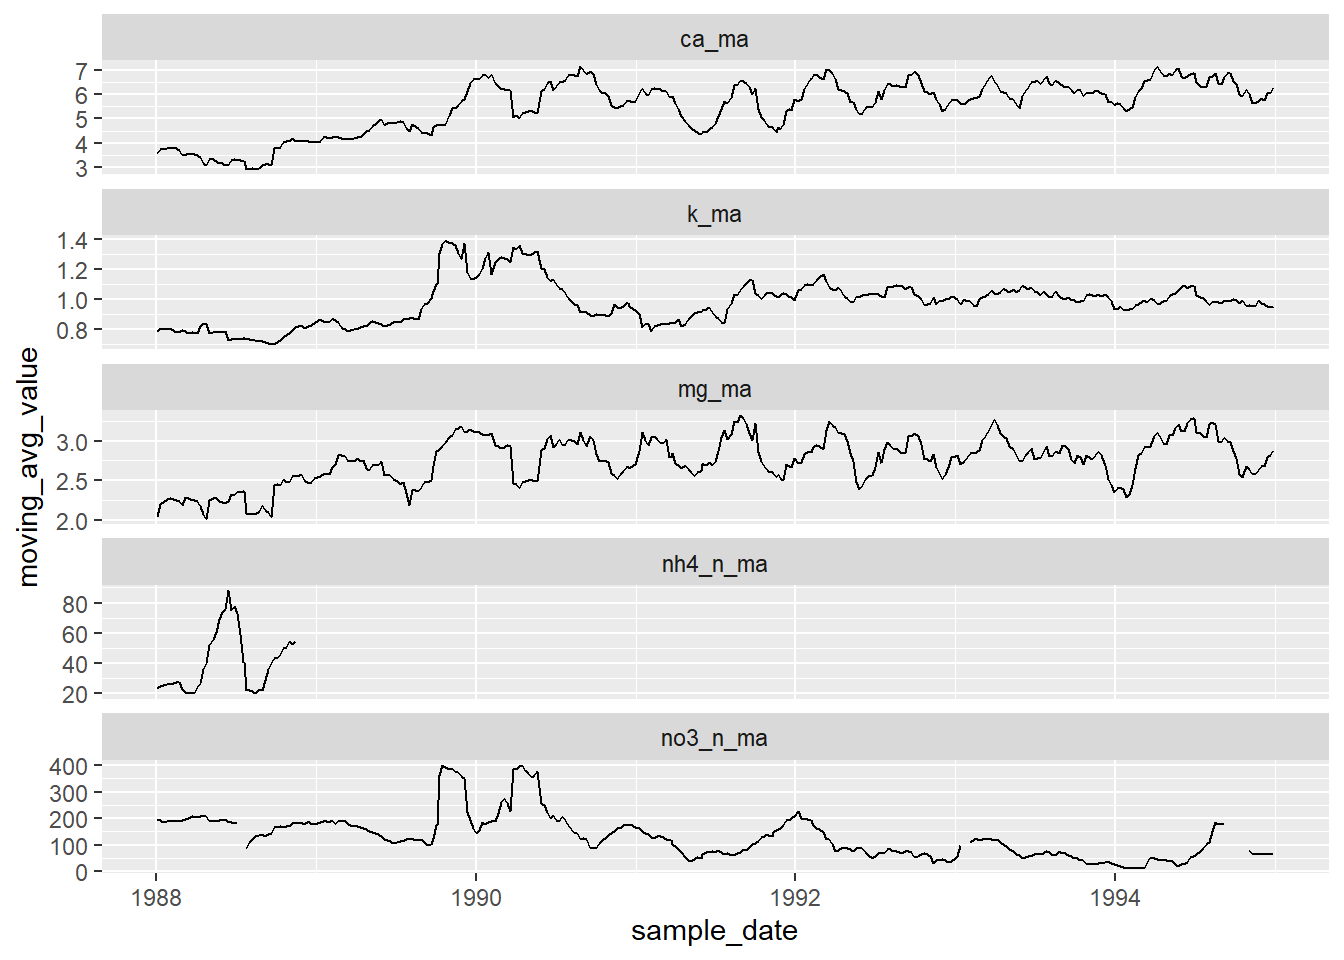
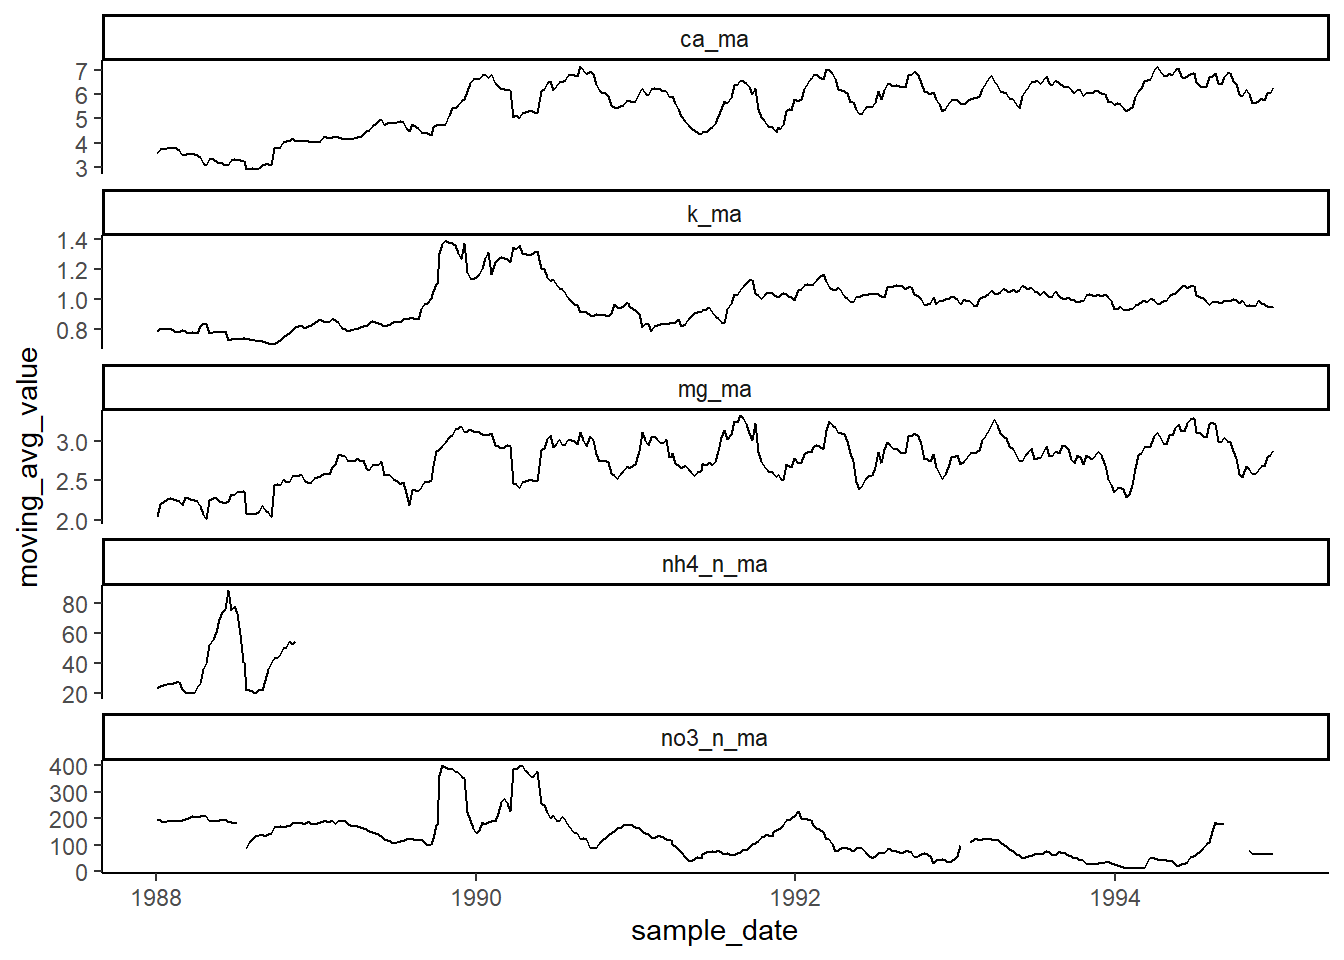
changed ggplot theme.

diff --git a/docs/paper.html b/docs/paper.html
@@ -323,7 +323,8 @@ date  (1): Sample_Date
 <span id="cb24-3"><a href="#cb24-3" aria-hidden="true" tabindex="-1"></a><span class="fu">ggplot</span>(<span class="at">data =</span> watersheds_ma, <span class="fu">aes</span>(<span class="at">x =</span> sample_date, <span class="at">y =</span> moving_avg_value)) <span class="sc">+</span></span>
 <span id="cb24-4"><a href="#cb24-4" aria-hidden="true" tabindex="-1"></a>  <span class="fu">geom_line</span>(<span class="fu">aes</span>()) <span class="sc">+</span></span>
 <span id="cb24-5"><a href="#cb24-5" aria-hidden="true" tabindex="-1"></a>  <span class="fu">facet_wrap</span>(<span class="sc">~</span>ion, <span class="at">scales =</span> <span class="st">"free_y"</span>, <span class="at">ncol =</span> <span class="dv">1</span>) <span class="sc">+</span></span>
-<span id="cb24-6"><a href="#cb24-6" aria-hidden="true" tabindex="-1"></a>  <span class="fu">geom_vline</span>(<span class="at">xintercept =</span> <span class="dv">1</span><span class="sc">:</span><span class="dv">5</span>, <span class="at">colour=</span><span class="st">"gray"</span>, <span class="at">linetype =</span> <span class="st">"longdash"</span>)</span></code><button title="Copy to Clipboard" class="code-copy-button"><i class="bi"></i></button></pre></div>
+<span id="cb24-6"><a href="#cb24-6" aria-hidden="true" tabindex="-1"></a>  <span class="fu">geom_vline</span>(<span class="at">xintercept =</span> <span class="dv">1</span><span class="sc">:</span><span class="dv">5</span>, <span class="at">colour=</span><span class="st">"gray"</span>, <span class="at">linetype =</span> <span class="st">"longdash"</span>) <span class="sc">+</span></span>
+<span id="cb24-7"><a href="#cb24-7" aria-hidden="true" tabindex="-1"></a>  <span class="fu">theme_classic</span>()</span></code><button title="Copy to Clipboard" class="code-copy-button"><i class="bi"></i></button></pre></div>
 <div class="cell-output-display">
 <div>
 <figure class="figure">
